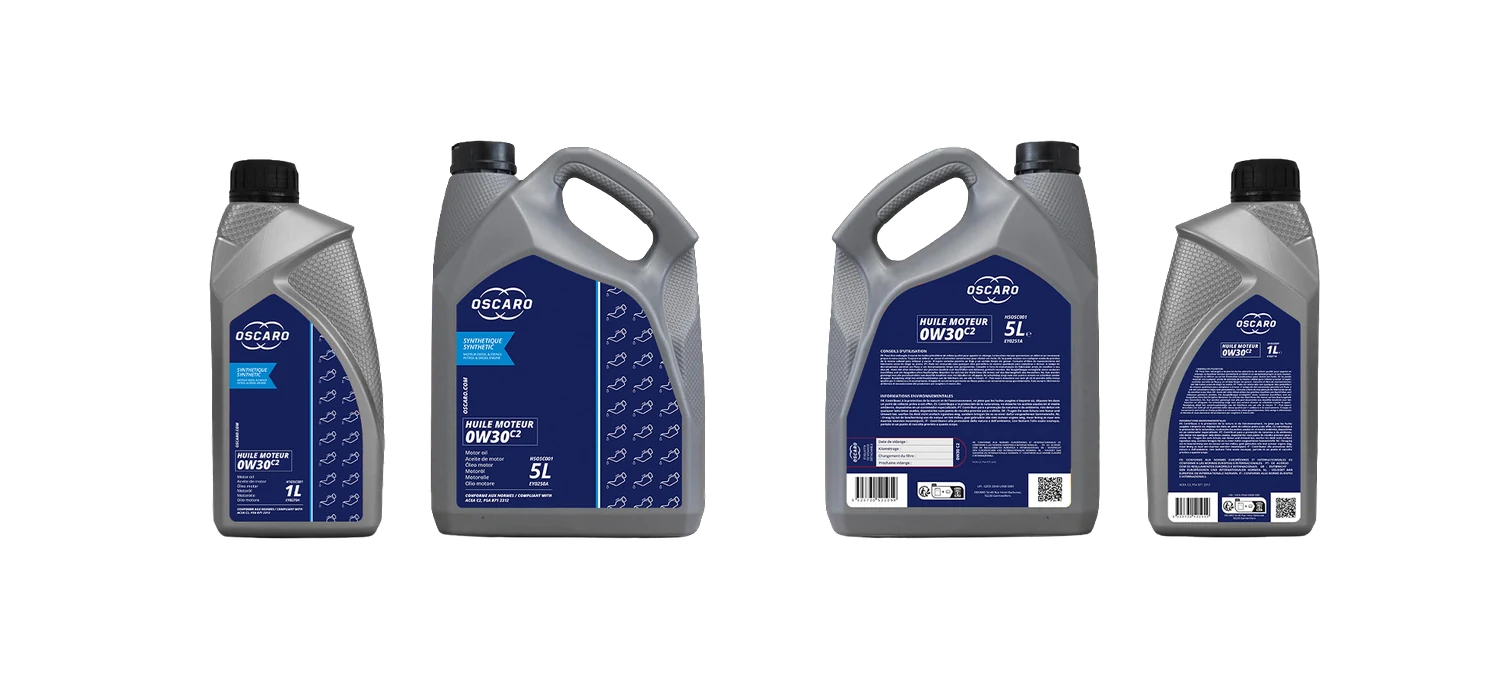
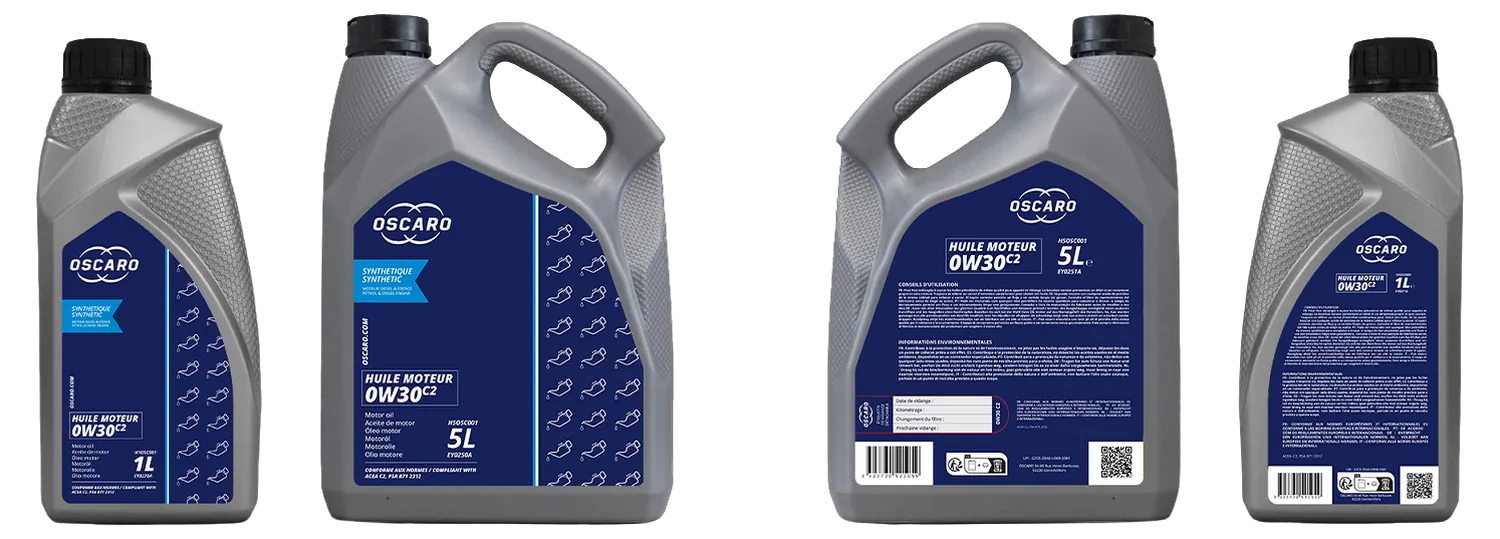
Sync index.html depuis HuskiaGreen/portfolio (2026-09-09)

diff --git a/index.html b/index.html
@@ -1813,12 +1813,11 @@
                  (les 2 cases sont alignées, la marge est transparente). */
         rows: [
           { imgs:[ ['01.webp',1500,844] ] },
-          { imgs:[ ['02.webp',1500,844], ['03.webp',1500,844] ], fit:'cover' },
-          { imgs:[ ['04.webp',1500,675] ] },
+          { imgs:[ ['02.webp',1500,844], ['07.webp',1500,844] ], fit:'cover' },
           { imgs:[ ['05.webp',1500,1173], ['06.webp',1500,1007] ], fit:'contain' },
-          { imgs:[ ['07.webp',1500,844] ] },
-          { imgs:[ ['08.webp',1500,1075] ] },
-          { imgs:[ ['09.webp',1500,555] ] },
+          { imgs:[ ['04.webp',1500,539] ] },
+          { imgs:[ ['03.webp',1500,844] ] },
+          { imgs:[ ['08.webp',1500,1341], ['09.webp',1500,556] ], fit:'contain' },
           { imgs:[ ['10.webp',1500,844] ] }
         ]
       }
